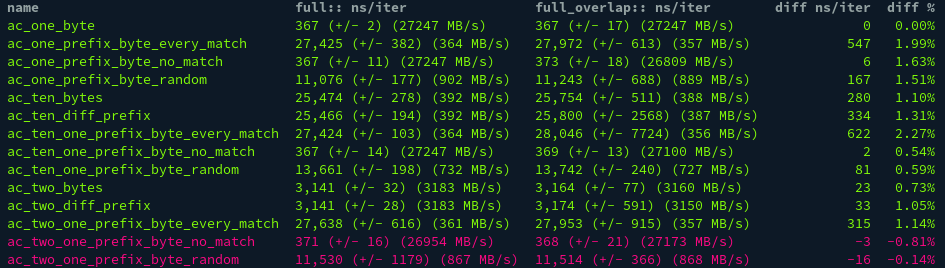
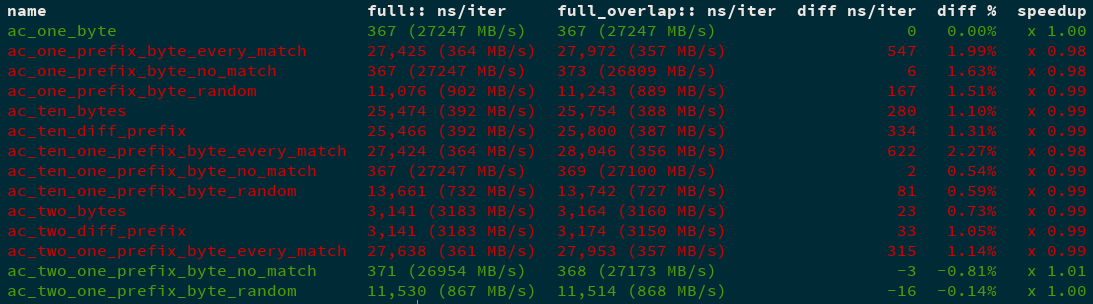
Update README examples

Changed region(s): [[0.0, 0.0597, 1.0, 1.0], [0.3069, 0.0, 1.0, 0.4478], [0.0, 0.0, 0.0614, 0.0597]]

diff --git a/README.md b/README.md
@@ -43,16 +43,13 @@ Finally, use `cargo benchcmp` to compare the benchmark results!
 
 ```
 $ cargo benchcmp control variable
-name                                           dynamic-no-lazy-dfa ns/iter  dynamic ns/iter         diff ns/iter   diff %
-bench::anchored_literal_long_match             169 (2,307 MB/s)             75 (5,200 MB/s)                  -94  -55.62%
-bench::anchored_literal_long_non_match         85 (4,588 MB/s)              61 (6,393 MB/s)                  -24  -28.24%
-bench::anchored_literal_short_match            158 (164 MB/s)               75 (346 MB/s)                    -83  -52.53%
-bench::anchored_literal_short_non_match        84 (309 MB/s)                61 (426 MB/s)                    -23  -27.38%
-bench::easy0_1K                                318 (3,220 MB/s)             196 (5,224 MB/s)                -122  -38.36%
-bench::easy0_1MB                               257,205 (4,076 MB/s)         255,138 (4,109 MB/s)          -2,067   -0.80%
-bench::easy0_32                                82 (390 MB/s)                71 (450 MB/s)                    -11  -13.41%
-bench::easy0_32K                               8,666 (3,781 MB/s)           5,392 (6,077 MB/s)            -3,274  -37.78%
-bench::easy1_1K                                293 (3,494 MB/s)             241 (4,248 MB/s)                 -52  -17.75%
+ name                                bench_output_3.txt ns/iter  bench_output_2.txt ns/iter  diff ns/iter   diff %  speedup
+ ac_one_byte                         354 (28248 MB/s)            349 (28653 MB/s)                      -5   -1.41%   x 1.01
+ ac_one_prefix_byte_every_match      150,581 (66 MB/s)           112,957 (88 MB/s)                -37,624  -24.99%   x 1.33
+ ac_one_prefix_byte_no_match         354 (28248 MB/s)            350 (28571 MB/s)                      -4   -1.13%   x 1.01
+ ac_one_prefix_byte_random           20,273 (493 MB/s)           16,096 (621 MB/s)                 -4,177  -20.60%   x 1.26
+ ac_ten_bytes                        108,092 (92 MB/s)           58,588 (170 MB/s)                -49,504  -45.80%   x 1.84
+ ac_ten_diff_prefix                  108,082 (92 MB/s)           58,601 (170 MB/s)                -49,481  -45.78%   x 1.84
 ...
 ```
 
@@ -69,21 +66,21 @@ prefixes, followed by the file containing the output:
 
 ```
 $ cargo benchcmp module1:: module2:: benchmark-output
-name                                dense_boxed ns/iter  dense ns/iter      diff ns/iter  diff %
-ac_two_one_prefix_byte_random       21,041 (475 MB/s)    16,741 (597 MB/s)  -4,300        -20.44%
-ac_two_one_prefix_byte_no_match     354 (28248 MB/s)     349 (28653 MB/s)   -5            -1.41%
-ac_two_one_prefix_byte_every_match  150,678 (66 MB/s)    112,962 (88 MB/s)  -37,716       -25.03%
-ac_two_diff_prefix                  3,139 (3185 MB/s)    3,127 (3197 MB/s)  -12           -0.38%
-ac_two_bytes                        3,140 (3184 MB/s)    3,125 (3200 MB/s)  -15           -0.48%
-ac_ten_one_prefix_byte_random       23,972 (417 MB/s)    19,495 (513 MB/s)  -4,477        -18.68%
-ac_ten_one_prefix_byte_no_match     354 (28248 MB/s)     356 (28089 MB/s)   2             0.56%
-ac_ten_one_prefix_byte_every_match  150,636 (66 MB/s)    115,112 (86 MB/s)  -35,524       -23.58%
-ac_ten_diff_prefix                  108,137 (92 MB/s)    59,237 (168 MB/s)  -48,900       -45.22%
-ac_ten_bytes                        108,109 (92 MB/s)    59,331 (168 MB/s)  -48,778       -45.12%
-ac_one_prefix_byte_random           20,476 (488 MB/s)    16,515 (605 MB/s)  -3,961        -19.34%
-ac_one_prefix_byte_no_match         354 (28248 MB/s)     358 (27932 MB/s)   4             1.13%
-ac_one_prefix_byte_every_match      150,619 (66 MB/s)    114,608 (87 MB/s)  -36,011       -23.91%
-ac_one_byte                         354 (28248 MB/s)     356 (28089 MB/s)   2             0.56%
+ name                                dense_boxed:: ns/iter  dense:: ns/iter    diff ns/iter   diff %  speedup
+ ac_one_byte                         354 (28248 MB/s)       349 (28653 MB/s)             -5   -1.41%   x 1.01
+ ac_one_prefix_byte_every_match      150,581 (66 MB/s)      112,957 (88 MB/s)       -37,624  -24.99%   x 1.33
+ ac_one_prefix_byte_no_match         354 (28248 MB/s)       350 (28571 MB/s)             -4   -1.13%   x 1.01
+ ac_one_prefix_byte_random           20,273 (493 MB/s)      16,096 (621 MB/s)        -4,177  -20.60%   x 1.26
+ ac_ten_bytes                        108,092 (92 MB/s)      58,588 (170 MB/s)       -49,504  -45.80%   x 1.84
+ ac_ten_diff_prefix                  108,082 (92 MB/s)      58,601 (170 MB/s)       -49,481  -45.78%   x 1.84
+ ac_ten_one_prefix_byte_every_match  150,561 (66 MB/s)      112,920 (88 MB/s)       -37,641  -25.00%   x 1.33
+ ac_ten_one_prefix_byte_no_match     354 (28248 MB/s)       350 (28571 MB/s)             -4   -1.13%   x 1.01
+ ac_ten_one_prefix_byte_random       23,684 (422 MB/s)      19,181 (521 MB/s)        -4,503  -19.01%   x 1.23
+ ac_two_bytes                        3,138 (3186 MB/s)      3,125 (3200 MB/s)           -13   -0.41%   x 1.00
+ ac_two_diff_prefix                  3,138 (3186 MB/s)      3,124 (3201 MB/s)           -14   -0.45%   x 1.00
+ ac_two_one_prefix_byte_every_match  150,571 (66 MB/s)      112,934 (88 MB/s)       -37,637  -25.00%   x 1.33
+ ac_two_one_prefix_byte_no_match     354 (28248 MB/s)       350 (28571 MB/s)             -4   -1.13%   x 1.01
+ ac_two_one_prefix_byte_random       21,009 (476 MB/s)      16,511 (605 MB/s)        -4,498  -21.41%   x 1.27
 ```
 
 The tool supports basic filtering. For example, it's easy to see only
@@ -91,33 +88,36 @@ improvements:
 
 ```
 $ cargo benchcmp old new --improvements
-name                                           dynamic-no-lazy-dfa ns/iter  dynamic ns/iter         diff ns/iter   diff %
-bench::anchored_literal_long_match             169 (2,307 MB/s)             75 (5,200 MB/s)                  -94  -55.62%
-bench::anchored_literal_long_non_match         85 (4,588 MB/s)              61 (6,393 MB/s)                  -24  -28.24%
-bench::anchored_literal_short_match            158 (164 MB/s)               75 (346 MB/s)                    -83  -52.53%
-bench::anchored_literal_short_non_match        84 (309 MB/s)                61 (426 MB/s)                    -23  -27.38%
-bench::easy0_1K                                318 (3,220 MB/s)             196 (5,224 MB/s)                -122  -38.36%
-bench::easy0_1MB                               257,205 (4,076 MB/s)         255,138 (4,109 MB/s)          -2,067   -0.80%
+ name                             full:: ns/iter     full_overlap:: ns/iter  diff ns/iter  diff %  speedup
+ ac_one_byte                      367 (27247 MB/s)   367 (27247 MB/s)                   0   0.00%   x 1.00
+ ac_two_one_prefix_byte_no_match  371 (26954 MB/s)   368 (27173 MB/s)                  -3  -0.81%   x 1.01
+ ac_two_one_prefix_byte_random    11,530 (867 MB/s)  11,514 (868 MB/s)                -16  -0.14%   x 1.00
 ```
 
 Or only see regressions:
 
 ```
 $ cargo benchcmp old new --regressions
-name                                         dynamic-no-lazy-dfa ns/iter  dynamic ns/iter         diff ns/iter  diff %
-bench::easy1_1MB                             329,774 (3,179 MB/s)         334,872 (3,131 MB/s)           5,098   1.55%
-bench::match_class                           84 (964 MB/s)                85 (952 MB/s)                      1   1.19%
-bench::medium_1MB                            2,034,481 (515 MB/s)         2,044,757 (512 MB/s)          10,276   0.51%
-bench::replace_all                           149                          153                                4   2.68%
-bench_dynamic_compile::compile_huge          161,349                      165,209                        3,860   2.39%
-bench_dynamic_compile::compile_huge_bytes    18,050,519                   18,795,770                   745,251   4.13%
+ name                                full:: ns/iter     full_overlap:: ns/iter  diff ns/iter  diff %  speedup
+ ac_one_prefix_byte_every_match      27,425 (364 MB/s)  27,972 (357 MB/s)                547   1.99%   x 0.98
+ ac_one_prefix_byte_no_match         367 (27247 MB/s)   373 (26809 MB/s)                   6   1.63%   x 0.98
+ ac_one_prefix_byte_random           11,076 (902 MB/s)  11,243 (889 MB/s)                167   1.51%   x 0.99
+ ac_ten_bytes                        25,474 (392 MB/s)  25,754 (388 MB/s)                280   1.10%   x 0.99
+ ac_ten_diff_prefix                  25,466 (392 MB/s)  25,800 (387 MB/s)                334   1.31%   x 0.99
+ ac_ten_one_prefix_byte_every_match  27,424 (364 MB/s)  28,046 (356 MB/s)                622   2.27%   x 0.98
+ ac_ten_one_prefix_byte_no_match     367 (27247 MB/s)   369 (27100 MB/s)                   2   0.54%   x 0.99
+ ac_ten_one_prefix_byte_random       13,661 (732 MB/s)  13,742 (727 MB/s)                 81   0.59%   x 0.99
+ ac_two_bytes                        3,141 (3183 MB/s)  3,164 (3160 MB/s)                 23   0.73%   x 0.99
+ ac_two_diff_prefix                  3,141 (3183 MB/s)  3,174 (3150 MB/s)                 33   1.05%   x 0.99
+ ac_two_one_prefix_byte_every_match  27,638 (361 MB/s)  27,953 (357 MB/s)                315   1.14%   x 0.99
+
 ```
 
 Many times, the difference in micro-benchmarks is just noise, so you can filter
 by percent difference:
 
 ```
-$ cargo benchcmp old new --regressions --threshold 3
-name                                         dynamic-no-lazy-dfa ns/iter  dynamic ns/iter    diff ns/iter  diff %
-bench_dynamic_compile::compile_huge_bytes    18,050,519                   18,795,770              745,251   4.13%
+$ cargo benchcmp old new --regressions --threshold 2
+ name                                full:: ns/iter     full_overlap:: ns/iter  diff ns/iter  diff %  speedup
+ ac_ten_one_prefix_byte_every_match  27,424 (364 MB/s)  28,046 (356 MB/s)                622   2.27%   x 0.98
 ```
